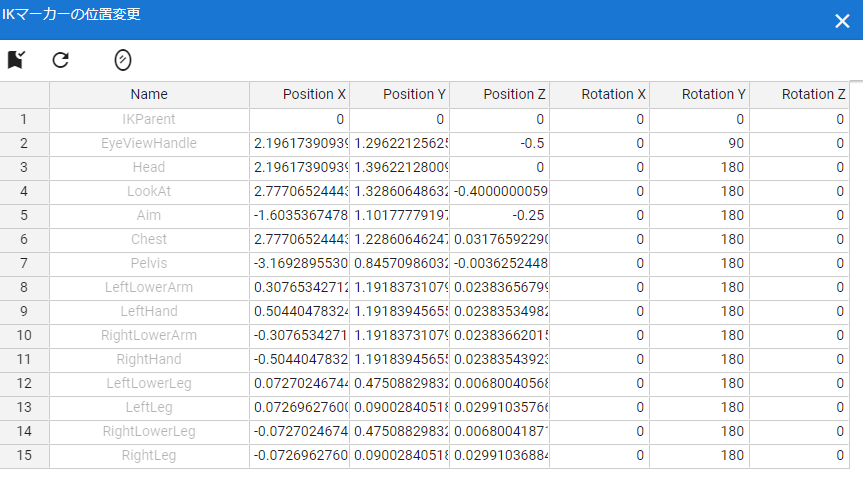
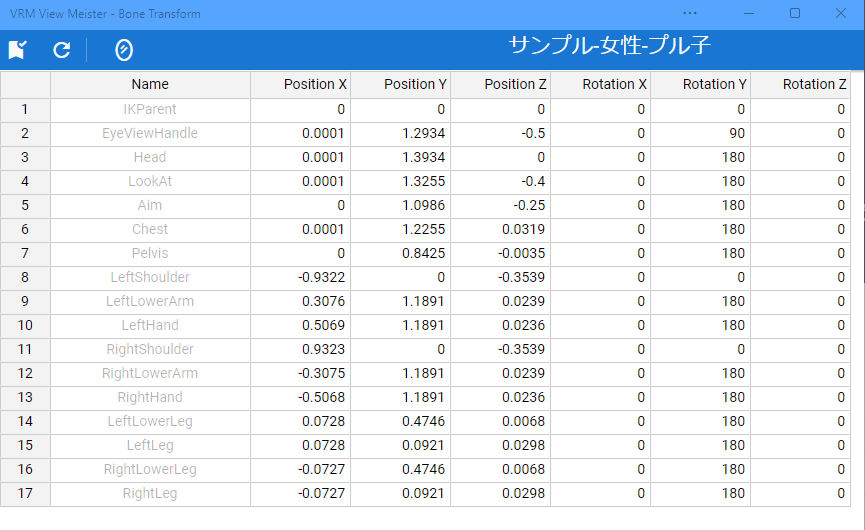
6/18夜時点

Changed region(s): [[0.0, 0.0, 1.0, 1.0]]

diff --git a/docs/source/man2/operation_vrm.rst b/docs/source/man2/operation_vrm.rst
@@ -184,6 +184,11 @@ IKマーカーを数値で操作する
 
 |
 
+.. note::
+    VRM以外を選択している間はツールバー内のボタンは無効化します。
+
+|
+
 .. index:: 可動範囲の制限を調整する（VRMの操作）
 
 可動範囲の制限を調整する
@@ -397,6 +402,26 @@ Ver 1.0.0 時点：
     | 　VRMが装着したオブジェクトは、アニメーションにおいては位置や回転などの変形操作をキーフレームに登録することはできなくなります。一覧で選択してもIKマーカーは表示されません。
     | 　各種プロパティは装着前に設定しておくようにしてください。
 
+
+.. admonition:: アニメーションプロジェクトでのオブジェクトの装着について
+    
+    | 　このオブジェクトの装着は仕組みが入り組んでいるため、アニメーションにおいては使用と準備には注意してください。オブジェクトの装着と解除は **目的とするモーションの開始・終了とは別にする** 必要があります。
+    | 　次の順序でキーフレームに登録するとよいでしょう。
+
+    例:
+        VRMの右手に剣の3Dオブジェクトを装着する
+    
+    .. csv-table::
+        :header-rows: 1
+
+        フレーム, VRM, その他オブジェクト
+        1, 右手を所定の位置に動かす, 剣を所定の位置に動かす
+        2, 右手に対して剣のオブジェクトを **装着する** , なし
+        ～, ,なし
+        9, 右手を動かし終える, なし
+        10, 右手に装着した剣を **解除する** , なし
+
+    * 2～10フレームの間はその他オブジェクトのプロパティを変更することはできません。
 
 |
 

diff --git a/docs/source/man1/screen_ikmarker.rst b/docs/source/man1/screen_ikmarker.rst
@@ -7,7 +7,7 @@ IKマーカーの位置変更
 .. image:: ../img/screen_ikmarker.png
     :align: center
 
-　VRoid/VRMの場合に使う機能です。本アプリで用いるモデルの体パーツの位置と回転を直接指定できます。本ウィンドウはドラッグ可能です。
+　VRoid/VRMの場合に使う機能です。本アプリで用いるモデルの体パーツの位置と回転を直接指定できます。別ウィンドウが開きます。アプリとは別ウィンドウです。
 
 
 **上部：**
@@ -27,4 +27,4 @@ IKマーカーの位置変更
 
 
 .. note::
-    ※このウィンドウを表示している最中もVRoid/VRMを直接移動・回転できますが、仕様によりすぐにこのウィンドウのスプレッドシートには反映されません。これらのボタンを押すことで位置・回転の情報がすぐに取得できます。
+    ※このウィンドウを表示している最中もVRoid/VRMを直接移動・回転できますが、仕様によりすぐにこのウィンドウのスプレッドシートには反映されません。再読み込みボタンを押すことで位置・回転の情報がすぐに取得できます。
